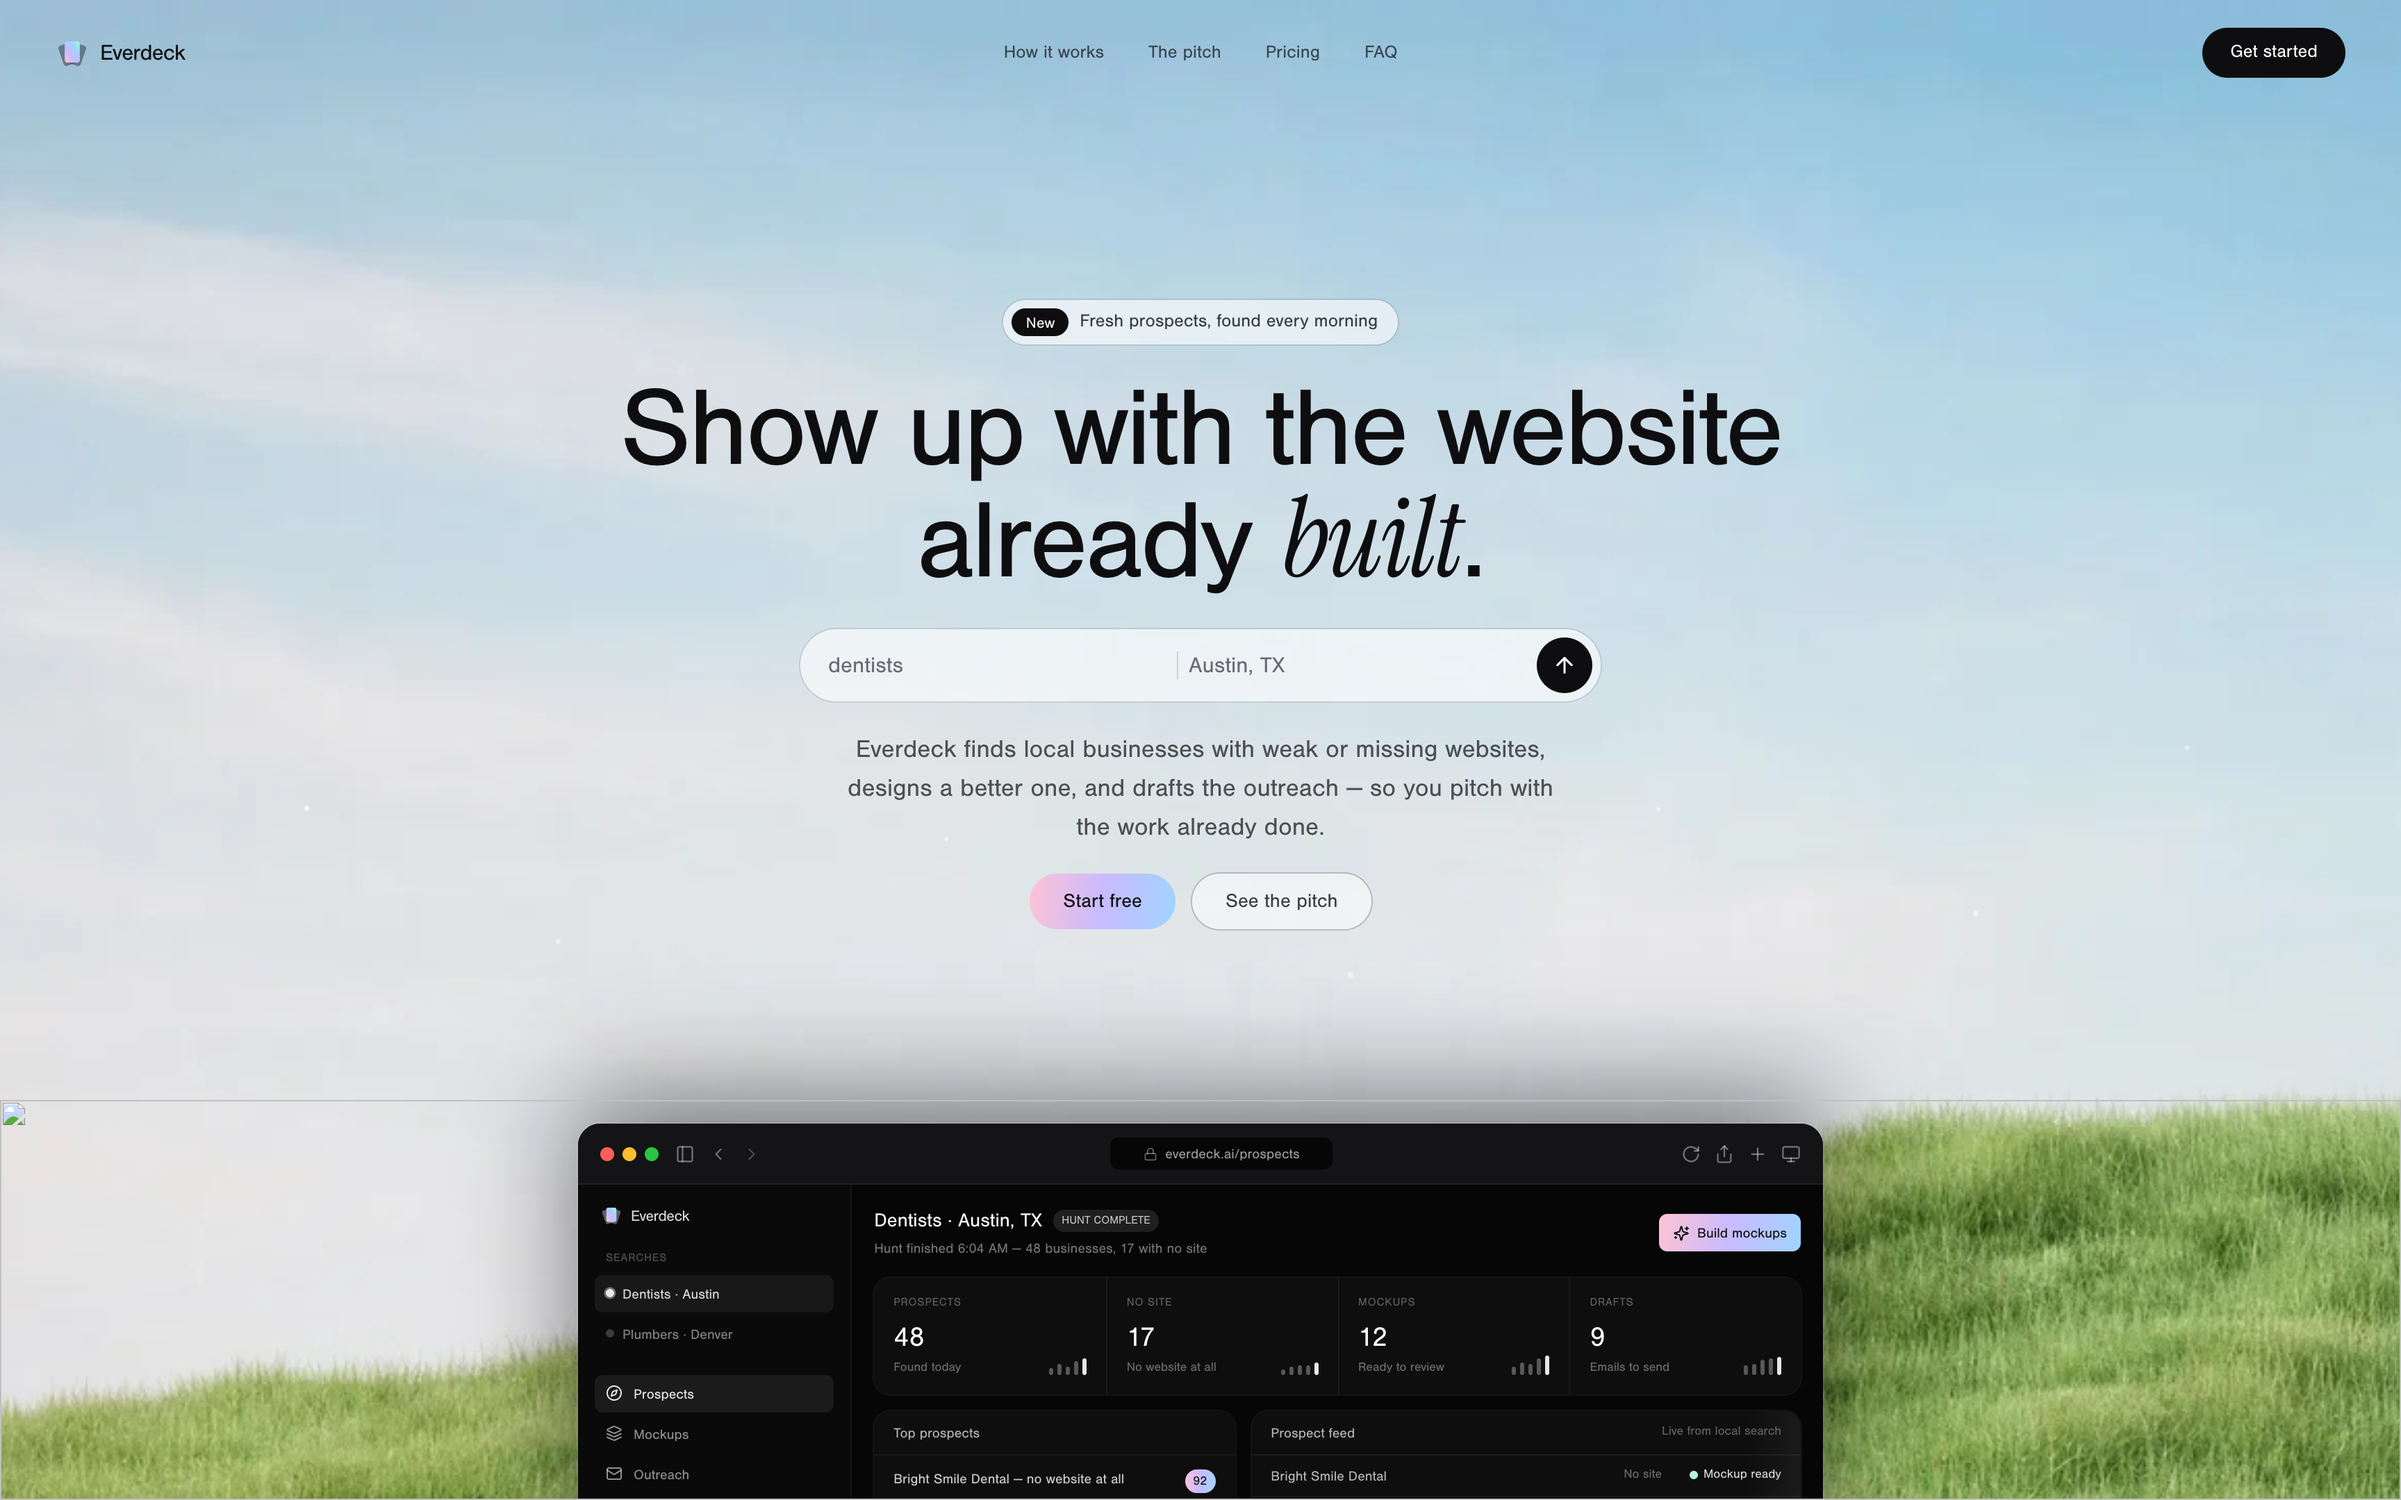
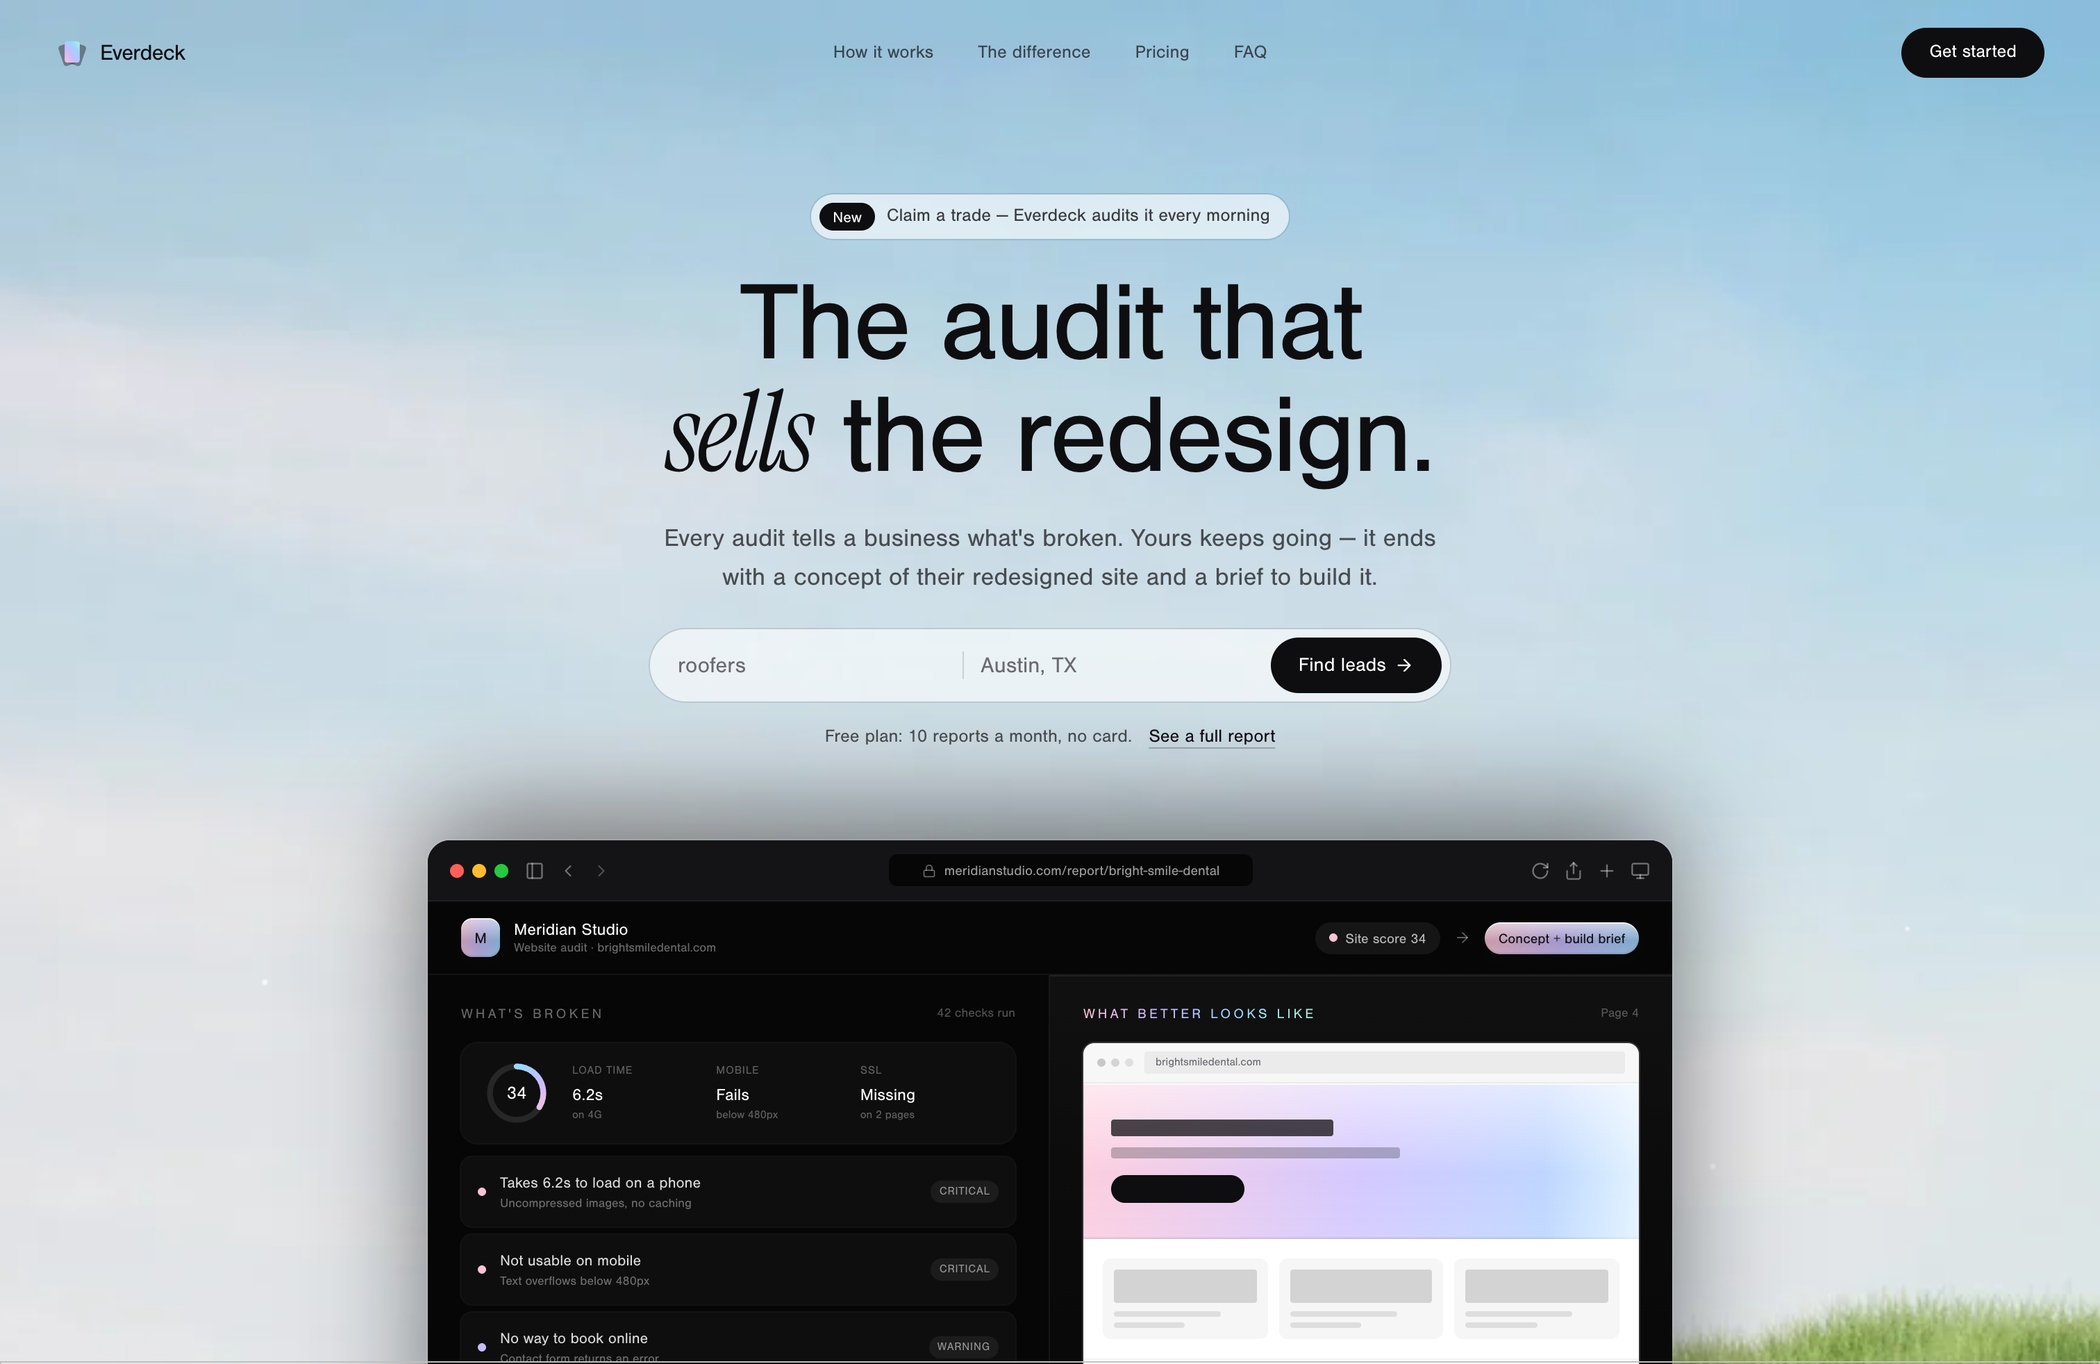
Everdeck: re-described to match its shipped positioning
everdeck.app has pivoted to white-label website audits for studios — "The
audit that sells the redesign". Replaced the stale deck/hunts captures (a
product direction that no longer exists) with the current landing page, and
rewrote the description and decisions note to match what actually ships.

diff --git a/content/site.ts b/content/site.ts
@@ -125,19 +125,18 @@ export const products: Product[] = [
     ],
   },
   {
-    // Positioning per the client (Jul 2026): present Everdeck as an AI
-    // business-niche generator organizing moves as a deck of cards; the
-    // product's direction is still being decided. Every clause below is true
-    // of the running app (market scans, 0–100 opportunity scores, card deck).
+    // Repositioned Aug 2026 to match the shipped product: everdeck.app now
+    // sells white-label website audits to studios/agencies — "The audit that
+    // sells the redesign". Verified against the live landing page and app nav.
     id: 'everdeck',
     number: '04',
     name: 'Everdeck',
     status: 'private preview',
     date: 'JUL 2026',
     description:
-      'A business-strategy deck in the making — point it at a market, let it hunt down every business in a niche, size each one up, and deal your next moves back as a hand of scored cards.',
+      'A white-label audit tool for web studios — name a trade and a city, and it scores the sites those businesses have now, then turns each audit into something you can actually pitch with.',
     decisionsNote:
-      'The heavy lifting — scanning a market and sizing up every business in it — runs in the background on the server, so it keeps working even when the tab is closed. And every user only ever sees their own deck, locked down at the database itself.',
+      'The slow part — scanning a market and scoring every site in it — runs in the background on the server, so it keeps working after you close the tab. Every studio only ever sees its own data, locked down at the database itself, and the whole thing carries their branding rather than mine.',
     techLine:
       'Next.js · TypeScript · Supabase Edge Functions + pg_cron · Clerk · Google Places API · Gemini (structured output)',
     receipts: [

diff --git a/content/cards.ts b/content/cards.ts
@@ -85,16 +85,16 @@ export const projectCards: ProjectCard[] = [
     links: [],
   },
   {
-    id: 'everdeck',
+id: 'everdeck',
     name: 'Everdeck',
-    status: 'private preview',
+    status: 'in private preview',
     line: everdeck.description,
-    tags: ['Next.js', 'Supabase Edge Functions', 'Google Places', 'Gemini'],
+    tags: ['Next.js', 'Supabase Edge Functions', 'Google Places', 'Gemini', 'Stripe'],
     accent: '#c9bbff',
     logo: 'everdeck/logo.svg',
     image: {
-      rel: 'everdeck/shot-deck.png',
-      alt: 'Everdeck: a deck of scored business-opportunity cards',
+      rel: 'everdeck/shot-landing.png',
+      alt: 'The Everdeck landing page: a large headline reading “The audit that sells the redesign”, a trade-and-city search field, and a sample audit report below it',
     },
     links: [{ label: 'everdeck.app', url: 'https://everdeck.app' }],
   },
